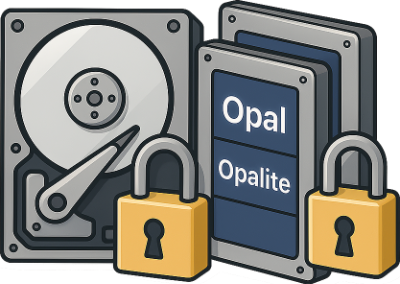
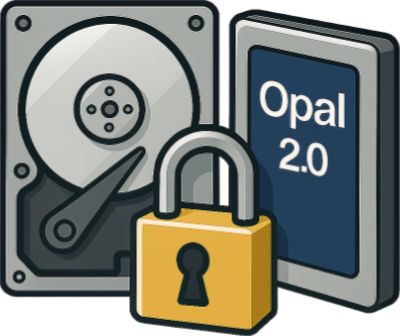
better illustration

diff --git a/src/components/HomepageFeatures/styles.module.css b/src/components/HomepageFeatures/styles.module.css
@@ -7,6 +7,8 @@
 
 .featureIllustration {
   width: 200px;
-  height: 168px;
+  height: 164px;
   object-fit: contain;
+  padding-top: 15px;
+  padding-bottom: 15px;
 }
